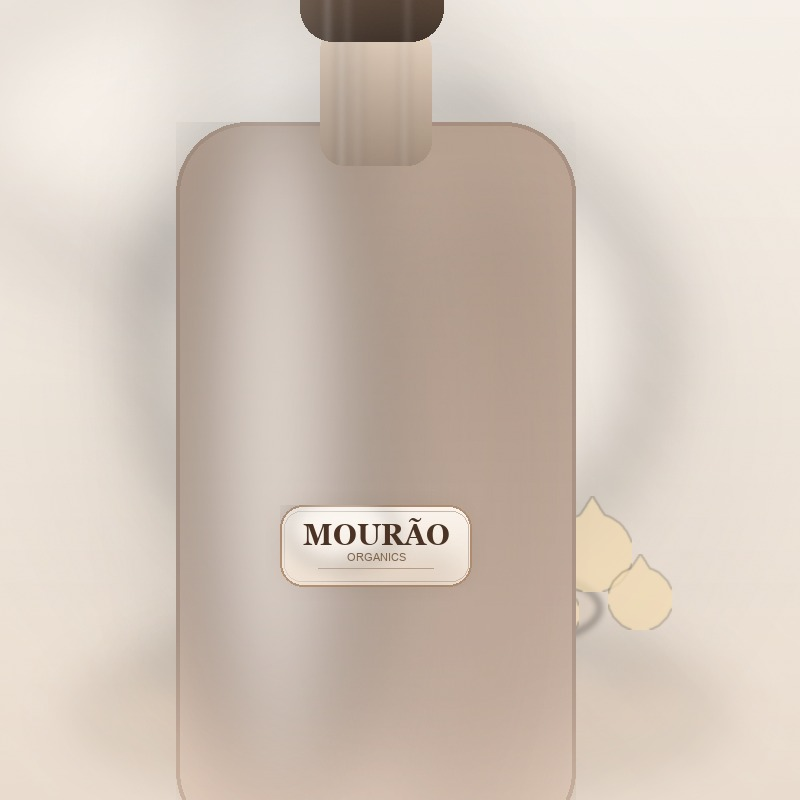
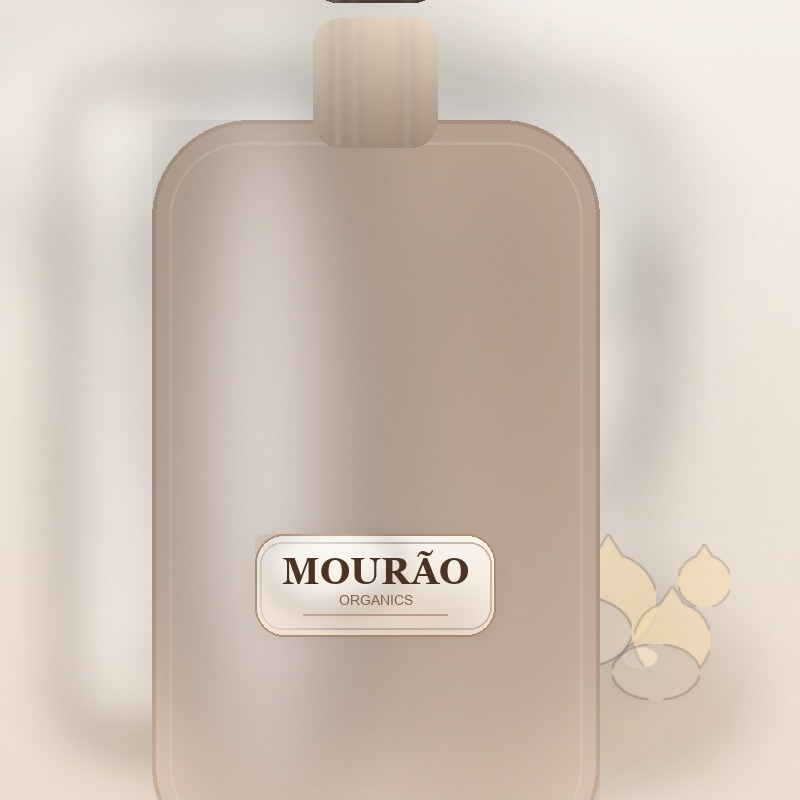
fix(images): individualize product scenes
WHY:
The generated visuals were consistent but still too generic, especially for bodylotion and lipbalm.

WHAT:
Add per-product scene tuning in the asset builder, including cleaner studio lighting for bodylotion, a closer tabletop composition for lipbalm, and supporting prop/background adjustments. Regenerate the affected product assets.

IMPACT:
Product pages feel less templated and read more clearly at storefront size on desktop and mobile. Risk is limited to visual presentation only.

diff --git a/scripts/build-product-assets.py b/scripts/build-product-assets.py
@@ -335,7 +335,8 @@ def build_background(spec: ProductSpec, size: tuple[int, int], role: str, varian
 
     draw_blurred_shape(canvas, (-int(width * 0.08), -int(height * 0.04), int(width * 0.6), int(height * 0.34)), (255, 250, 244, 78), blur=max(42, width // 16), kind="ellipse")
     draw_blurred_shape(canvas, (int(width * 0.18), int(height * core_top), int(width * 0.82), int(height * 0.72)), rgb(spec.glow, 126 if role == "hero" else 112), blur=glow_blur, kind="ellipse")
-    draw_blurred_shape(canvas, (int(width * 0.34), int(height * 0.32), int(width * 0.66), int(height * 0.84)), rgb("#7a604e", 10), blur=max(44, width // 18), kind="ellipse")
+    ring_alpha = 4 if spec.handle in {"bodylotion", "lipbalm"} else 10
+    draw_blurred_shape(canvas, (int(width * 0.34), int(height * 0.32), int(width * 0.66), int(height * 0.84)), rgb("#7a604e", ring_alpha), blur=max(44, width // 18), kind="ellipse")
     draw_blurred_shape(canvas, (int(width * 0.1), int(height * surface_top), int(width * 0.9), int(height * 0.98)), rgb("#cdb29a", 76), blur=max(16, width // 28), kind="ellipse")
     draw_blurred_shape(canvas, (int(width * 0.18), int(height * (surface_top - 0.02)), int(width * 0.82), int(height * 0.91)), rgb("#fff7ef", 42), blur=max(18, width // 26), kind="ellipse")
 
@@ -355,6 +356,16 @@ def build_background(spec: ProductSpec, size: tuple[int, int], role: str, varian
         draw_blurred_shape(canvas, (int(width * 0.06), int(height * 0.22), int(width * 0.68), int(height * 0.92)), rgb("#f0d6ce", 118), blur=42, kind="ellipse")
     if "pebble" in spec.props:
         draw_blurred_shape(canvas, (int(width * 0.58), int(height * 0.72), int(width * 0.75), int(height * 0.8)), rgb("#d8cabd", 232), blur=4, kind="ellipse")
+    if spec.handle == "bodylotion":
+        draw_blurred_shape(canvas, (int(width * 0.08), int(height * 0.1), int(width * 0.42), int(height * 0.92)), (255, 250, 244, 124), blur=max(18, width // 30), kind="roundrect", radius=max(24, width // 24))
+        draw_blurred_shape(canvas, (int(width * 0.5), int(height * 0.12), int(width * 0.8), int(height * 0.88)), (255, 252, 247, 54), blur=max(20, width // 26), kind="roundrect", radius=max(20, width // 28))
+        draw_blurred_shape(canvas, (int(width * 0.5), int(height * 0.74), int(width * 0.94), int(height * 0.98)), rgb("#a98e7d", 58), blur=max(18, width // 28), kind="ellipse")
+        draw_blurred_shape(canvas, (int(width * 0.18), int(height * 0.08), int(width * 0.86), int(height * 0.44)), (255, 255, 255, 52), blur=max(22, width // 24), kind="ellipse")
+    if spec.handle == "lipbalm":
+        draw_blurred_shape(canvas, (int(width * 0.1), int(height * 0.62), int(width * 0.9), int(height * 0.98)), rgb("#cab9a8", 86), blur=max(14, width // 28), kind="ellipse")
+        draw_blurred_shape(canvas, (int(width * 0.12), int(height * 0.12), int(width * 0.9), int(height * 0.46)), (255, 251, 243, 68), blur=max(24, width // 22), kind="ellipse")
+        draw_blurred_shape(canvas, (int(width * 0.62), -int(height * 0.04), int(width * 1.02), int(height * 0.32)), (255, 247, 236, 72), blur=max(18, width // 28), kind="ellipse")
+        draw_blurred_shape(canvas, (int(width * 0.18), int(height * 0.54), int(width * 0.82), int(height * 0.92)), (255, 255, 255, 26), blur=max(18, width // 30), kind="roundrect", radius=max(18, width // 26))
     return canvas
 
 
@@ -392,14 +403,20 @@ def add_scene_props(canvas: Image.Image, spec: ProductSpec, logo: Image.Image, r
             petal_draw.ellipse((petal.width * 0.26, 0, petal.width * 0.9, petal.height * 0.56), fill=rgb("#edc56e", 152))
             paste_centered(canvas, petal.rotate(-28, Image.Resampling.BICUBIC, expand=True), (int(width * x_pos), int(height * y_pos)))
     if "stems" in spec.props:
-        for x_pos in (0.73, 0.79, 0.85):
-            draw.line((int(width * x_pos), int(height * 0.21), int(width * (x_pos + 0.05)), int(height * 0.48)), fill=rgb("#c5b29b", 126), width=stroke)
+        stem_positions = (0.82, 0.88) if spec.handle == "lipbalm" else (0.73, 0.79, 0.85)
+        stem_start_y = 0.6 if spec.handle == "lipbalm" else 0.21
+        stem_end_y = 0.88 if spec.handle == "lipbalm" else 0.48
+        stem_fill = rgb("#d5c7b8", 92) if spec.handle == "lipbalm" else rgb("#c5b29b", 126)
+        node_fill = rgb("#e2d5c4", 108) if spec.handle == "lipbalm" else rgb("#d9cab8", 146)
+        for x_pos in stem_positions:
+            draw.line((int(width * x_pos), int(height * stem_start_y), int(width * (x_pos + 0.04)), int(height * stem_end_y)), fill=stem_fill, width=max(1, stroke - 1))
             for node in range(3):
                 node_x = int(width * (x_pos + 0.015 * node))
-                node_y = int(height * (0.27 + 0.06 * node))
-                draw.ellipse((node_x, node_y, node_x + max(14, width // 84), node_y + max(16, height // 96)), fill=rgb("#d9cab8", 146))
+                node_y = int(height * (stem_start_y + (stem_end_y - stem_start_y) * node / 3))
+                draw.ellipse((node_x, node_y, node_x + max(14, width // 84), node_y + max(16, height // 96)), fill=node_fill)
     if "oil_drops" in spec.props:
-        for x_pos, y_pos, scale in ((0.74, 0.68, 1.0), (0.8, 0.74, 0.8), (0.69, 0.76, 0.68)):
+        positions = ((0.76, 0.74, 1.2), (0.84, 0.79, 0.96), (0.68, 0.8, 0.82), (0.88, 0.72, 0.66)) if spec.handle == "bodylotion" else ((0.74, 0.68, 1.0), (0.8, 0.74, 0.8), (0.69, 0.76, 0.68))
+        for x_pos, y_pos, scale in positions:
             drop = Image.new("RGBA", (int(width * 0.1 * scale), int(height * 0.12 * scale)), (0, 0, 0, 0))
             drop_draw = ImageDraw.Draw(drop)
             drop_draw.ellipse((0, drop.height * 0.18, drop.width, drop.height), fill=rgb("#f0d9b0", 188))
@@ -412,7 +429,8 @@ def add_scene_props(canvas: Image.Image, spec: ProductSpec, logo: Image.Image, r
             draw_blurred_shape(canvas, (int(width * x_pos) - radius, int(height * y_pos) - radius, int(width * x_pos) + radius, int(height * y_pos) + radius), (255, 255, 255, 70), blur=8, kind="ellipse")
             draw_blurred_shape(canvas, (int(width * x_pos) - radius // 2, int(height * y_pos) - radius // 2, int(width * x_pos) + radius // 2, int(height * y_pos) + radius // 2), (255, 255, 255, 120), blur=4, kind="ellipse")
     if "beeswax" in spec.props:
-        for x_pos, y_pos, scale in ((0.78, 0.22, 1.0), (0.84, 0.27, 0.82), (0.73, 0.3, 0.72)):
+        positions = ((0.22, 0.74, 1.08), (0.29, 0.79, 0.9), (0.76, 0.27, 0.78), (0.82, 0.32, 0.66)) if spec.handle == "lipbalm" else ((0.78, 0.22, 1.0), (0.84, 0.27, 0.82), (0.73, 0.3, 0.72))
+        for x_pos, y_pos, scale in positions:
             pellet = Image.new("RGBA", (int(width * 0.07 * scale * scale), int(width * 0.07 * scale * scale)), (0, 0, 0, 0))
             pellet_draw = ImageDraw.Draw(pellet)
             pellet_draw.ellipse((0, 0, pellet.width - 1, pellet.height - 1), fill=rgb("#e8c35e", 208))
@@ -425,6 +443,18 @@ def add_scene_props(canvas: Image.Image, spec: ProductSpec, logo: Image.Image, r
         dish_draw.ellipse((dish.width * 0.12, dish.height * 0.18, dish.width * 0.88, dish.height * 0.74), fill=rgb("#f1e0c2", 230))
         dish_draw.arc((dish.width * 0.25, dish.height * 0.24, dish.width * 0.76, dish.height * 0.72), 185, 360, fill=rgb("#ffffff", 130), width=3)
         paste_centered(canvas, dish, (int(width * 0.76), int(height * 0.78)))
+    if spec.handle == "bodylotion":
+        for x_pos, y_pos, w_scale, h_scale, tone in (
+            (0.72, 0.79, 0.14, 0.09, "#d3c4b7"),
+            (0.82, 0.84, 0.11, 0.07, "#cbbcaf"),
+            (0.62, 0.86, 0.09, 0.06, "#ded3c8"),
+        ):
+            pebble = Image.new("RGBA", (int(width * w_scale), int(height * h_scale)), (0, 0, 0, 0))
+            pebble_draw = ImageDraw.Draw(pebble)
+            pebble_draw.ellipse((0, 0, pebble.width - 1, pebble.height - 1), fill=rgb(tone, 236))
+            pebble_draw.ellipse((pebble.width * 0.14, pebble.height * 0.08, pebble.width * 0.5, pebble.height * 0.4), fill=(255, 248, 241, 64))
+            pebble = pebble.filter(ImageFilter.GaussianBlur(1))
+            paste_centered(canvas, pebble, (int(width * x_pos), int(height * y_pos)))
 
 
 def add_glass_highlight(layer: Image.Image, box: tuple[int, int, int, int], alpha: int = 85) -> None:
@@ -519,51 +549,63 @@ def render_jar(scene: Image.Image, spec: ProductSpec, logo: Image.Image, role: s
 def render_pump_bottle(scene: Image.Image, spec: ProductSpec, role: str, x_shift: float, y_shift: float, rotation: int) -> None:
     width, height = scene.size
     layer = Image.new("RGBA", scene.size, (0, 0, 0, 0))
-    bottle_w = int(width * (0.37 if role == "hero" else 0.41 if role == "card" else 0.5))
-    bottle_h = int(bottle_w * 2.2)
+    width_ratio = 0.41 if role == "hero" else 0.45 if role == "card" else 0.54
+    if spec.handle == "bodylotion":
+        width_ratio += 0.02
+    bottle_w = int(width * width_ratio)
+    bottle_h = int(bottle_w * (2.08 if spec.handle == "bodylotion" else 2.2))
     cx = int(width * (0.5 + x_shift))
-    cy = int(height * (0.56 + y_shift))
+    cy = int(height * ((0.58 if spec.handle == "bodylotion" else 0.56) + y_shift))
 
-    draw_shadow(layer, (cx - bottle_w // 3, cy + bottle_h // 2 - int(height * 0.02), cx + bottle_w // 3, cy + bottle_h // 2 + int(height * 0.04)), alpha=96)
+    draw_shadow(layer, (cx - bottle_w // 3, cy + bottle_h // 2 - int(height * 0.018), cx + bottle_w // 3, cy + bottle_h // 2 + int(height * 0.038)), alpha=104 if spec.handle == "bodylotion" else 96)
 
     bottle_layer = Image.new("RGBA", (bottle_w + 120, bottle_h + 180), (0, 0, 0, 0))
     bx = 60
     by = 80
     body_w = bottle_w
-    body_h = int(bottle_h * 0.82)
-    body = masked_gradient((body_w, body_h), spec.primary, spec.secondary, kind="roundrect", radius=int(body_w * 0.18))
+    body_h = int(bottle_h * (0.8 if spec.handle == "bodylotion" else 0.82))
+    radius = int(body_w * (0.22 if spec.handle == "bodylotion" else 0.18))
+    body = masked_gradient((body_w, body_h), spec.primary, spec.secondary, kind="roundrect", radius=radius)
     body.alpha_composite(grain_overlay(body.size, alpha=9, sigma=12, tint=spec.accent))
     body_sheen = Image.new("RGBA", body.size, (0, 0, 0, 0))
     draw_blurred_shape(body_sheen, (int(body_w * 0.04), -int(body_h * 0.05), int(body_w * 0.48), int(body_h * 0.96)), (255, 255, 255, 82), blur=max(10, body_w // 10), kind="ellipse")
     draw_blurred_shape(body_sheen, (int(body_w * 0.52), int(body_h * 0.12), int(body_w * 1.04), int(body_h * 1.02)), (112, 84, 70, 42), blur=max(10, body_w // 9), kind="ellipse")
     body.alpha_composite(body_sheen)
     border = Image.new("RGBA", body.size, (0, 0, 0, 0))
-    ImageDraw.Draw(border).rounded_rectangle((0, 0, body_w - 1, body_h - 1), radius=int(body_w * 0.18), outline=(140, 117, 103, 110), width=max(2, body_w // 90))
+    border_draw = ImageDraw.Draw(border)
+    border_draw.rounded_rectangle((0, 0, body_w - 1, body_h - 1), radius=radius, outline=(140, 117, 103, 110), width=max(2, body_w // 90))
+    if spec.handle == "bodylotion":
+        border_draw.rounded_rectangle((int(body_w * 0.04), int(body_h * 0.03), int(body_w * 0.96), int(body_h * 0.97)), radius=max(18, radius - body_w // 20), outline=(255, 249, 241, 34), width=max(1, body_w // 140))
     body.alpha_composite(border)
     bottle_layer.alpha_composite(body, (bx, by + int(bottle_h * 0.16)))
 
     neck_w = int(body_w * 0.28)
-    neck_h = int(bottle_h * 0.16)
+    neck_h = int(bottle_h * (0.14 if spec.handle == "bodylotion" else 0.16))
     neck = metal_texture((neck_w, neck_h), "#e6d3c0", "#a18b79")
     neck.putalpha(make_mask(neck.size, kind="roundrect", radius=int(neck_w * 0.22)))
     bottle_layer.alpha_composite(neck, (bx + int(body_w * 0.36), by + int(bottle_h * 0.05)))
 
-    pump_w = int(body_w * 0.36)
-    pump_h = int(bottle_h * 0.16)
+    pump_w = int(body_w * (0.29 if spec.handle == "bodylotion" else 0.36))
+    pump_h = int(bottle_h * (0.12 if spec.handle == "bodylotion" else 0.16))
     pump = metal_texture((pump_w, pump_h), "#4f4038", "#251f1b")
     pump.putalpha(make_mask(pump.size, kind="roundrect", radius=int(pump_h * 0.24)))
-    bottle_layer.alpha_composite(pump, (bx + int(body_w * 0.31), 0))
+    pump_x = bx + int(body_w * (0.355 if spec.handle == "bodylotion" else 0.31))
+    bottle_layer.alpha_composite(pump, (pump_x, 0))
     spout = Image.new("RGBA", bottle_layer.size, (0, 0, 0, 0))
     spout_draw = ImageDraw.Draw(spout)
-    spout_draw.rounded_rectangle((bx + int(body_w * 0.44), int(pump_h * 0.18), bx + int(body_w * 0.83), int(pump_h * 0.42)), radius=12, fill=(58, 48, 42, 255))
+    if spec.handle == "bodylotion":
+        spout_draw.rounded_rectangle((bx + int(body_w * 0.47), int(pump_h * 0.2), bx + int(body_w * 0.74), int(pump_h * 0.4)), radius=10, fill=(58, 48, 42, 255))
+        spout_draw.rounded_rectangle((bx + int(body_w * 0.68), int(pump_h * 0.2), bx + int(body_w * 0.78), int(pump_h * 0.68)), radius=10, fill=(58, 48, 42, 255))
+    else:
+        spout_draw.rounded_rectangle((bx + int(body_w * 0.44), int(pump_h * 0.18), bx + int(body_w * 0.83), int(pump_h * 0.42)), radius=12, fill=(58, 48, 42, 255))
     bottle_layer.alpha_composite(spout)
 
     bottle_layer = bottle_layer.rotate(rotation, Image.Resampling.BICUBIC, expand=True)
     paste_centered(layer, bottle_layer, (cx, cy))
     add_glass_highlight(layer, (cx - bottle_w // 2, cy - bottle_h // 2, cx + bottle_w // 2, cy + bottle_h // 2), alpha=88)
 
-    label = build_paper_label(int(bottle_w * 0.48))
-    paste_centered(layer, label, (cx, int(cy + bottle_h * 0.13)))
+    label = build_paper_label(int(bottle_w * (0.54 if spec.handle == "bodylotion" else 0.48)))
+    paste_centered(layer, label, (cx, int(cy + bottle_h * (0.15 if spec.handle == "bodylotion" else 0.13))))
     scene.alpha_composite(layer)
 
 
@@ -618,14 +660,17 @@ def render_tube(scene: Image.Image, spec: ProductSpec, role: str, x_shift: float
 def render_open_tin(scene: Image.Image, spec: ProductSpec, logo: Image.Image, role: str, x_shift: float, y_shift: float, rotation: int) -> None:
     width, height = scene.size
     layer = Image.new("RGBA", scene.size, (0, 0, 0, 0))
-    base_d = int(width * (0.38 if role == "hero" else 0.42 if role == "card" else 0.52))
-    cx = int(width * (0.45 + x_shift))
-    cy = int(height * (0.56 + y_shift))
-    lid_cx = int(width * (0.63 + x_shift))
-    lid_cy = int(height * (0.67 + y_shift))
+    base_ratio = 0.44 if role == "hero" else 0.48 if role == "card" else 0.58
+    if spec.handle != "lipbalm":
+        base_ratio -= 0.06
+    base_d = int(width * base_ratio)
+    cx = int(width * ((0.43 if spec.handle == "lipbalm" else 0.45) + x_shift))
+    cy = int(height * ((0.58 if spec.handle == "lipbalm" else 0.56) + y_shift))
+    lid_cx = int(width * ((0.68 if spec.handle == "lipbalm" else 0.63) + x_shift))
+    lid_cy = int(height * ((0.66 if spec.handle == "lipbalm" else 0.67) + y_shift))
 
-    draw_shadow(layer, (cx - base_d // 3, cy + base_d // 3, cx + base_d // 3, cy + base_d // 2), alpha=88)
-    draw_shadow(layer, (lid_cx - base_d // 3, lid_cy + base_d // 4, lid_cx + base_d // 3, lid_cy + base_d // 2), alpha=74)
+    draw_shadow(layer, (cx - base_d // 3, cy + base_d // 3, cx + base_d // 3, cy + base_d // 2), alpha=96 if spec.handle == "lipbalm" else 88)
+    draw_shadow(layer, (lid_cx - base_d // 3, lid_cy + base_d // 4, lid_cx + base_d // 3, lid_cy + base_d // 2), alpha=82 if spec.handle == "lipbalm" else 74)
 
     tin = metal_texture((base_d, int(base_d * 0.42)), "#d7d8da", "#9fa4aa", horizontal=True)
     tin.putalpha(make_mask(tin.size, kind="roundrect", radius=int(base_d * 0.12)))
@@ -638,6 +683,8 @@ def render_open_tin(scene: Image.Image, spec: ProductSpec, logo: Image.Image, ro
     cream_swirl = Image.new("RGBA", cream.size, (0, 0, 0, 0))
     cream_draw = ImageDraw.Draw(cream_swirl)
     cream_draw.arc((int(cream.size[0] * 0.18), int(cream.size[1] * 0.18), int(cream.size[0] * 0.82), int(cream.size[1] * 1.08)), 190, 350, fill=(255, 249, 235, 56), width=max(2, cream.size[1] // 10))
+    if spec.handle == "lipbalm":
+        cream_draw.ellipse((int(cream.size[0] * 0.18), int(cream.size[1] * 0.2), int(cream.size[0] * 0.42), int(cream.size[1] * 0.52)), fill=(255, 249, 232, 44))
     cream.alpha_composite(cream_swirl)
     paste_centered(layer, cream, (cx, cy))
     rim = Image.new("RGBA", layer.size, (0, 0, 0, 0))
@@ -647,11 +694,12 @@ def render_open_tin(scene: Image.Image, spec: ProductSpec, logo: Image.Image, ro
 
     lid = metal_texture((int(base_d * 0.88), int(base_d * 0.88)), "#d4d5d6", "#a8adb2")
     lid.putalpha(make_mask(lid.size, kind="ellipse"))
-    lid.alpha_composite(build_wood_roundel(int(base_d * 0.56), logo), (int(base_d * 0.16), int(base_d * 0.16)))
+    roundel_d = int(base_d * (0.44 if spec.handle == "lipbalm" else 0.56))
+    lid.alpha_composite(build_wood_roundel(roundel_d, logo), (int((lid.size[0] - roundel_d) / 2), int((lid.size[1] - roundel_d) / 2)))
     lid_gloss = Image.new("RGBA", lid.size, (0, 0, 0, 0))
     draw_blurred_shape(lid_gloss, (int(lid.size[0] * 0.08), int(lid.size[1] * 0.04), int(lid.size[0] * 0.46), int(lid.size[1] * 0.58)), (255, 255, 255, 74), blur=max(8, lid.size[0] // 16), kind="ellipse")
     lid.alpha_composite(lid_gloss)
-    lid = lid.rotate(rotation + 8, Image.Resampling.BICUBIC, expand=True)
+    lid = lid.rotate(rotation + (14 if spec.handle == "lipbalm" else 8), Image.Resampling.BICUBIC, expand=True)
     paste_centered(layer, lid, (lid_cx, lid_cy))
     scene.alpha_composite(layer)
 
